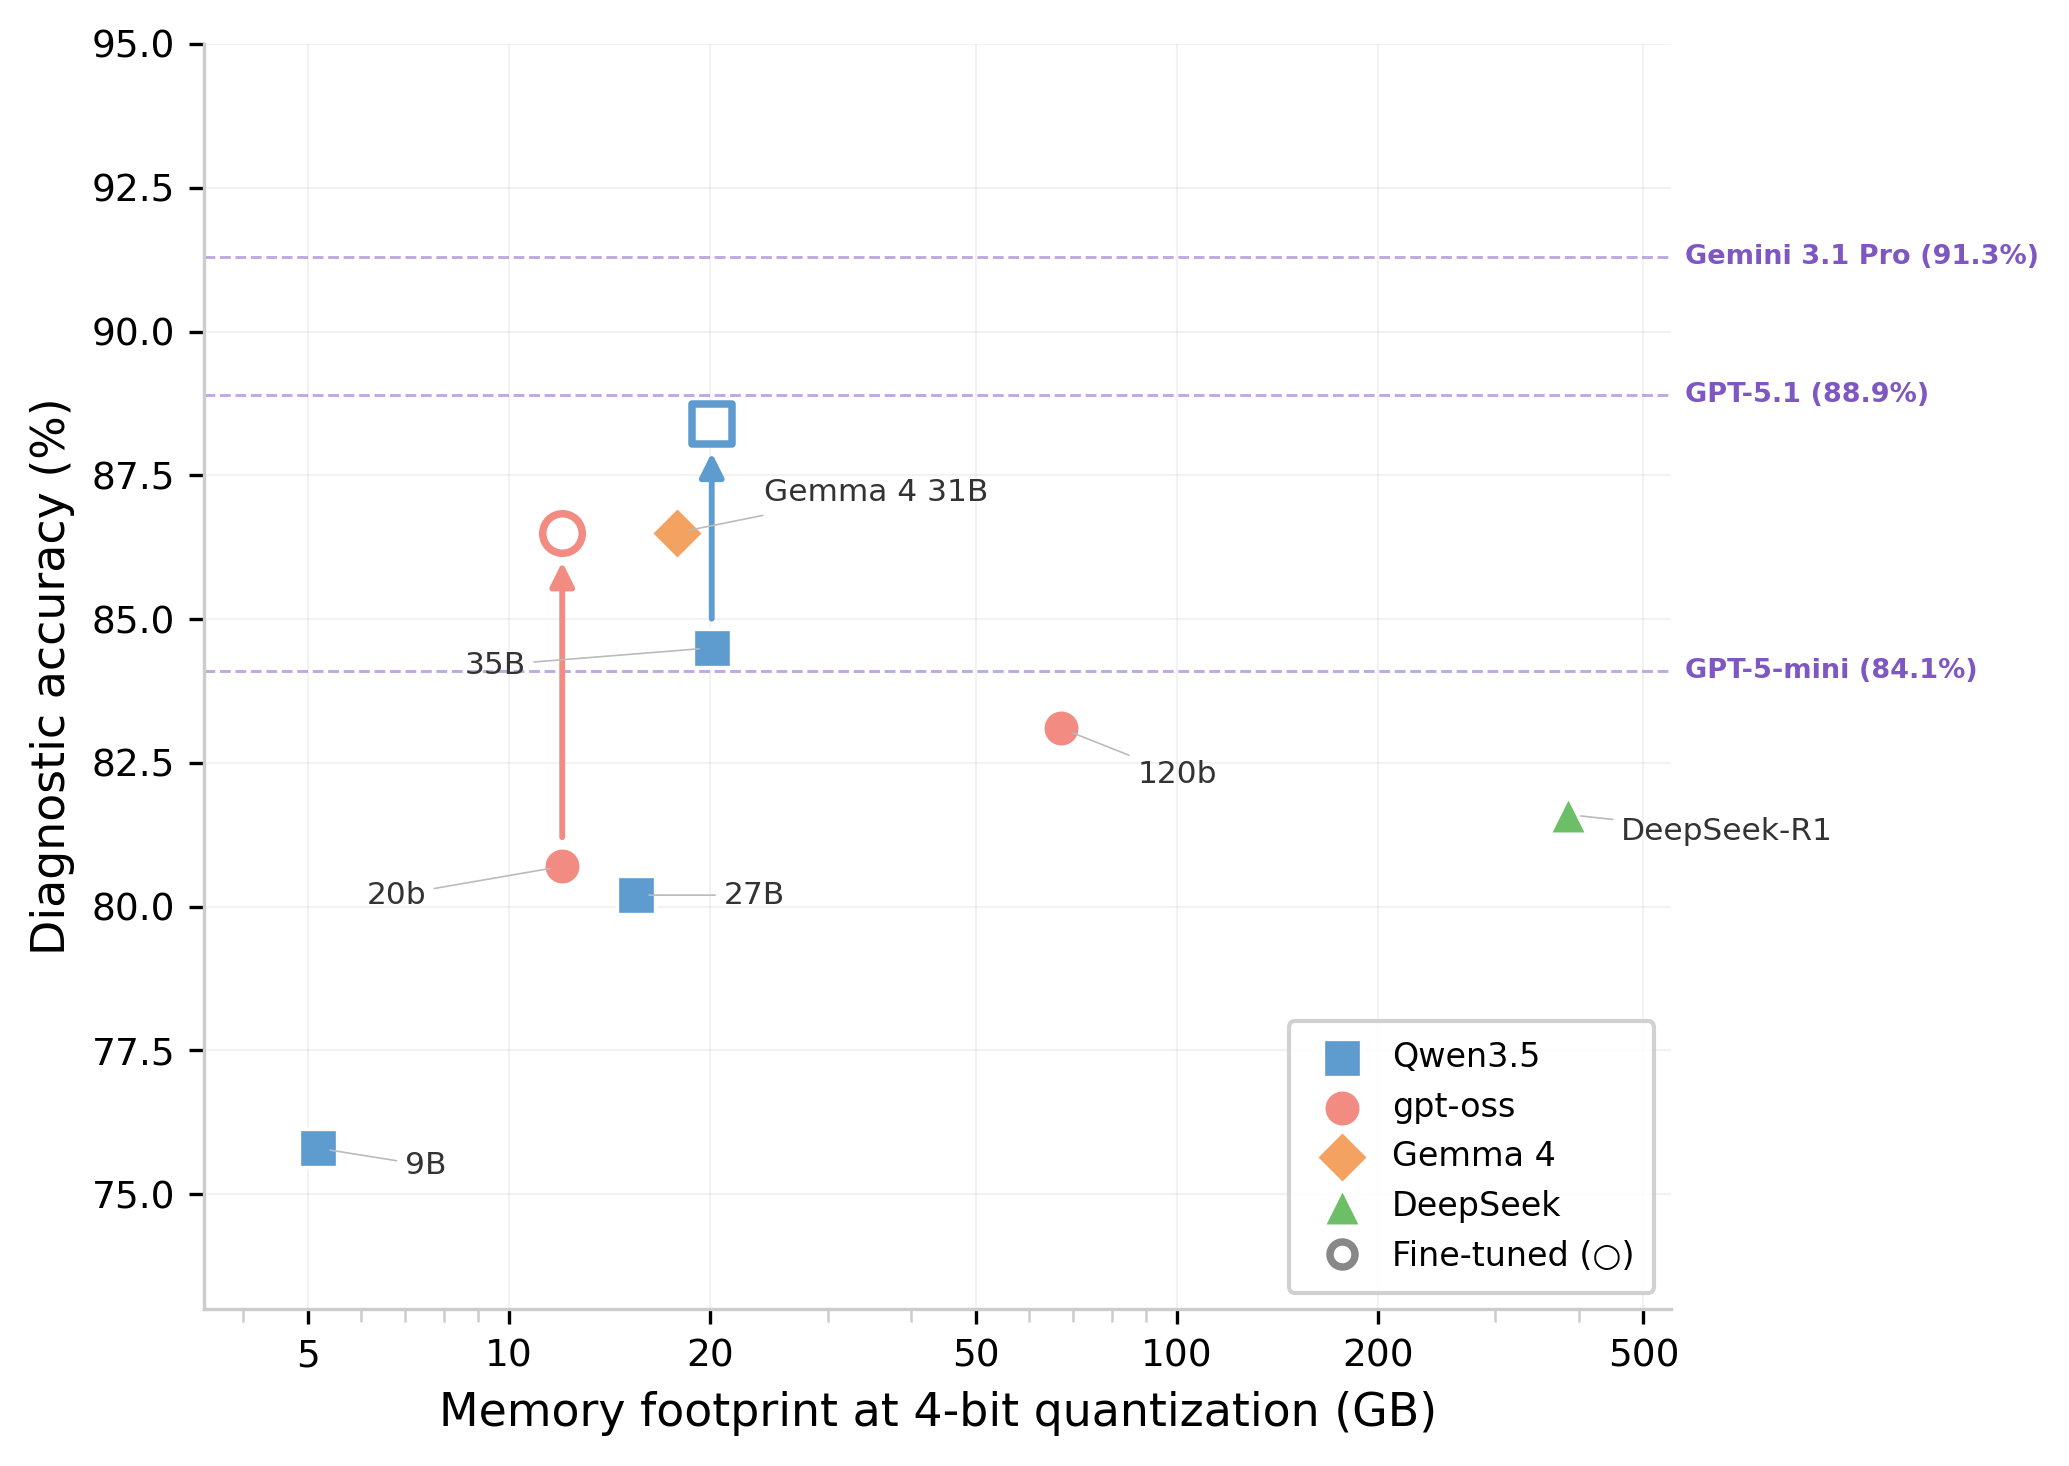
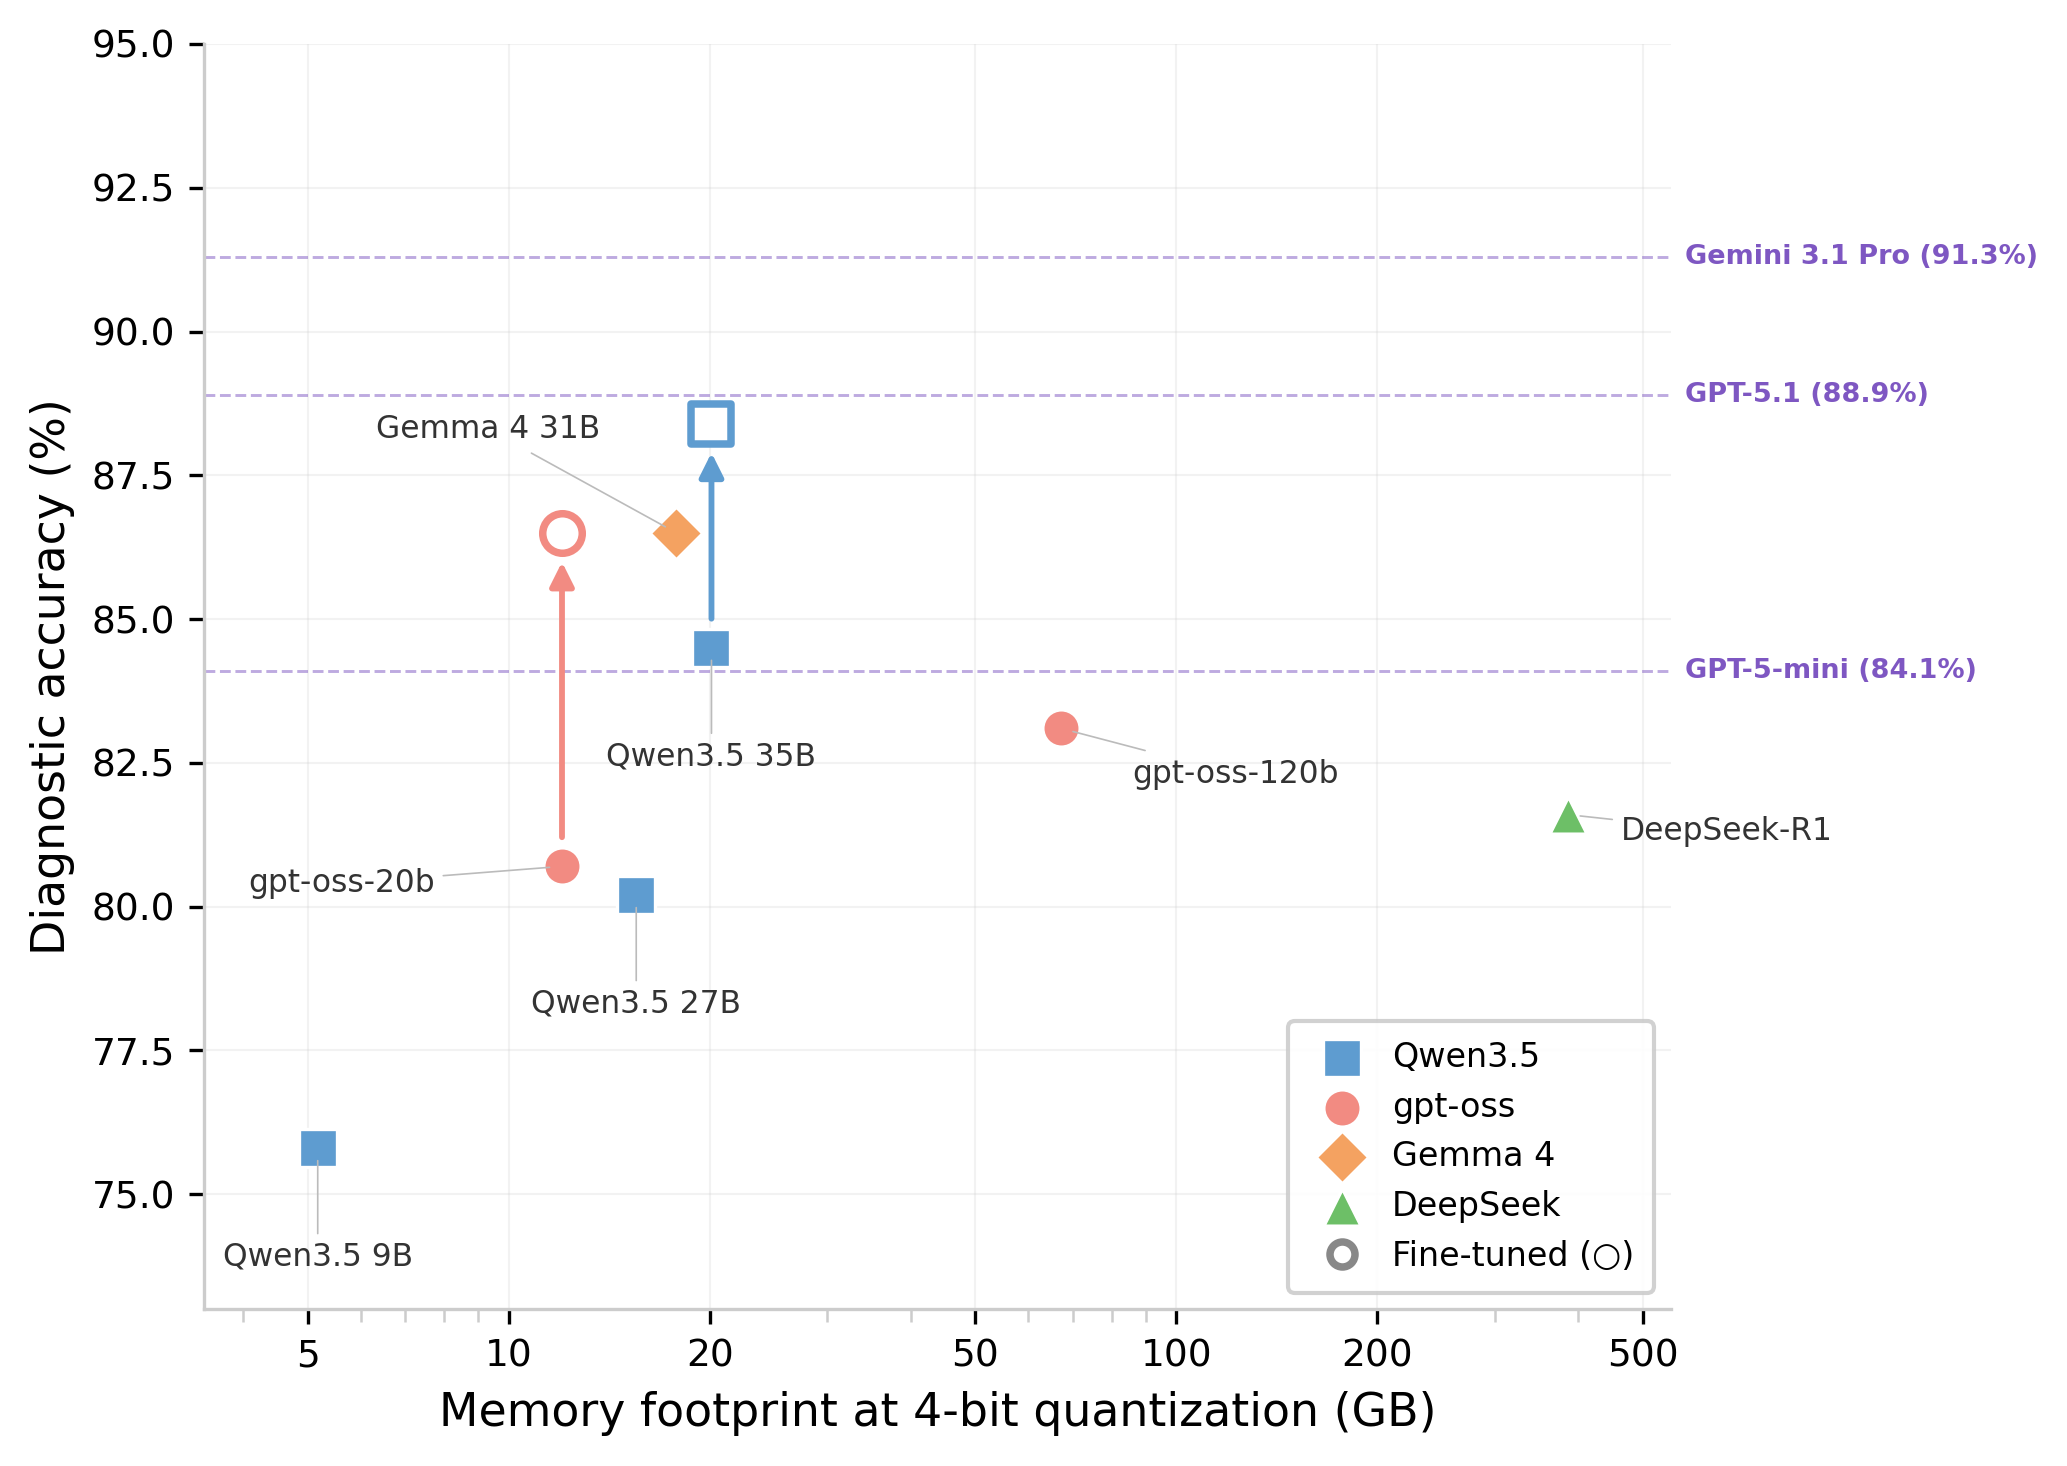
Update Fig 3 label placement and incorporate Overleaf edits
- Move Fig 3 model labels to avoid crossing colored FT arrows: Qwen
  squares below markers, Gemma 4 top-left, gpt-oss-20b left, gpt-oss-120b
  right; use full model names (gpt-oss-20b, Gemma 4 31B, etc.)
- Rewrite off-topic error sentence to separate >=31B models from
  gpt-oss-20b (which has only 3.6B active params, not >=31B)
- Pull co-author edits from Overleaf: Qwen column reorder (9B/27B/35B),
  "Mgmt" -> "Management", ophthalmology Overall row formatting

diff --git a/paper/main.tex b/paper/main.tex
@@ -212,29 +212,29 @@ Gemma 4 31B achieved the strongest base on-device accuracy at 86.5\% (95\% CI: 8
 \toprule
 & & \multicolumn{3}{c}{\textbf{Proprietary}} & \textbf{Open} & \multicolumn{2}{c}{\textbf{gpt-oss}} & \multicolumn{3}{c}{\textbf{Qwen3.5}} & \textbf{Gemma 4} \\
 \cmidrule(lr){3-5} \cmidrule(lr){6-6} \cmidrule(lr){7-8} \cmidrule(lr){9-11} \cmidrule(lr){12-12}
-\textbf{Type} & \textbf{Topic} & \textbf{GPT-5.1} & \textbf{GPT-5-mini} & \textbf{Gemini-3.1} & \textbf{DS-R1} & \textbf{20b} & \textbf{120b} & \textbf{35B} & \textbf{27B} & \textbf{9B} & \textbf{31B} \\
+\textbf{Type} & \textbf{Topic} & \textbf{GPT-5.1} & \textbf{GPT-5-mini} & \textbf{Gemini-3.1} & \textbf{DS-R1} & \textbf{20b} & \textbf{120b} & \textbf{9B} & \textbf{27B} & \textbf{35B} & \textbf{31B} \\
 \midrule
 \multirow{6}{*}{\rotatebox{90}{\textbf{Diagnosis}}}
-& Glaucoma           & \best{\acc{100.0}} & \best{\acc{100.0}} & \best{\acc{100.0}} & \best{\acc{100.0}} & \acc{85.7} & \acc{85.7} & \best{\acc{100.0}} & \best{\acc{100.0}} & \best{\acc{100.0}} & \acc{85.7} \\
+& Glaucoma            & \best{\acc{100.0}} & \best{\acc{100.0}} & \best{\acc{100.0}} & \best{\acc{100.0}} & \acc{85.7} & \acc{85.7} & \best{\acc{100.0}} & \best{\acc{100.0}} & \best{\acc{100.0}} & \acc{85.7} \\
 & Ext.\ Eye/Orbital  & \best{\acc{90.0}} & \acc{80.0} & \best{\acc{90.0}} & \best{\acc{90.0}} & \acc{80.0} & \acc{80.0} & \acc{70.0} & \acc{70.0} & \acc{70.0} & \acc{80.0} \\
-& Retinal            & \best{\acc{100.0}} & \best{\acc{100.0}} & \best{\acc{100.0}} & \best{\acc{100.0}} & \acc{66.7} & \acc{66.7} & \best{\acc{100.0}} & \best{\acc{100.0}} & \acc{66.7} & \acc{66.7} \\
+& Retinal            & \best{\acc{100.0}} & \best{\acc{100.0}} & \best{\acc{100.0}} & \best{\acc{100.0}} & \acc{66.7} & \acc{66.7} & \acc{66.7} & \best{\acc{100.0}} & \best{\acc{100.0}} & \acc{66.7} \\
 & Anterior Segment   & \acc{50.0} & \best{\acc{75.0}} & \best{\acc{75.0}} & \best{\acc{75.0}} & \acc{62.5} & \best{\acc{75.0}} & \best{\acc{75.0}} & \best{\acc{87.5}} & \best{\acc{75.0}} & \best{\acc{75.0}} \\
-& Ocular Trauma      & \best{\acc{100.0}} & \acc{83.3} & \best{\acc{100.0}} & \best{\acc{100.0}} & \acc{83.3} & \best{\acc{100.0}} & \best{\acc{100.0}} & \best{\acc{100.0}} & \acc{83.3} & \best{\acc{100.0}} \\
+& Ocular Trauma      & \best{\acc{100.0}} & \acc{83.3} & \best{\acc{100.0}} & \best{\acc{100.0}} & \acc{83.3} & \best{\acc{100.0}} & \acc{83.3} & \best{\acc{100.0}} & \best{\acc{100.0}} & \best{\acc{100.0}} \\
 & Refract./Strabismus & \best{\acc{100.0}} & \best{\acc{100.0}} & \best{\acc{100.0}} & \best{\acc{100.0}} & \best{\acc{100.0}} & \best{\acc{100.0}} & \best{\acc{100.0}} & \best{\acc{100.0}} & \best{\acc{100.0}} & \best{\acc{100.0}} \\
 \cmidrule{2-12}
-& \textit{Average}   & \textit{\acc{87.2}} & \textit{\acc{87.2}} & \textit{\best{\acc{92.3}}} & \textit{\best{\acc{92.3}}} & \textit{\acc{79.5}} & \textit{\acc{84.6}} & \textit{\acc{87.2}} & \textit{\best{\acc{89.7}}} & \textit{\acc{82.1}} & \textit{\acc{84.6}} \\
+& \textit{Average}   & \textit{\acc{87.2}} & \textit{\acc{87.2}} & \textit{\best{\acc{92.3}}} & \textit{\best{\acc{92.3}}} & \textit{\acc{79.5}} & \textit{\acc{84.6}} & \textit{\acc{82.1}} & \textit{\best{\acc{89.7}}} & \textit{\acc{87.2}} & \textit{\acc{84.6}} \\
 \midrule
-\multirow{6}{*}{\rotatebox{90}{\textbf{Mgmt}}}
-& Glaucoma           & \best{\acc{85.7}} & \acc{64.3} & \best{\acc{85.7}} & \acc{71.4} & \acc{50.0} & \acc{78.6} & \best{\acc{85.7}} & \best{\acc{85.7}} & \acc{64.3} & \acc{71.4} \\
-& Ext.\ Eye/Orbital  & \acc{71.4} & \acc{57.1} & \acc{64.3} & \acc{78.6} & \acc{64.3} & \acc{71.4} & \best{\acc{92.9}} & \acc{71.4} & \acc{78.6} & \acc{78.6} \\
+\multirow{6}{*}{\rotatebox{90}{\textbf{Management}}}
+& Glaucoma            & \best{\acc{85.7}} & \acc{64.3} & \best{\acc{85.7}} & \acc{71.4} & \acc{50.0} & \acc{78.6} & \acc{64.3} & \best{\acc{85.7}} & \best{\acc{85.7}} & \acc{71.4} \\
+& Ext.\ Eye/Orbital  & \acc{71.4} & \acc{57.1} & \acc{64.3} & \acc{78.6} & \acc{64.3} & \acc{71.4} & \acc{78.6} & \acc{71.4} & \best{\acc{92.9}} & \acc{78.6} \\
 & Retinal            & \acc{37.5} & \acc{25.0} & \acc{37.5} & \acc{37.5} & \acc{37.5} & \acc{37.5} & \acc{37.5} & \acc{25.0} & \acc{37.5} & \acc{37.5} \\
-& Anterior Segment   & \best{\acc{82.4}} & \acc{64.7} & \best{\acc{82.4}} & \acc{70.6} & \acc{76.5} & \acc{76.5} & \acc{64.7} & \acc{64.7} & \acc{58.8} & \acc{58.8} \\
+& Anterior Segment   & \best{\acc{82.4}} & \acc{64.7} & \best{\acc{82.4}} & \acc{70.6} & \acc{76.5} & \acc{76.5} & \acc{58.8} & \acc{64.7} & \acc{64.7} & \acc{58.8} \\
 & Ocular Trauma      & \acc{65.4} & \acc{57.7} & \acc{65.4} & \best{\acc{76.9}} & \acc{50.0} & \best{\acc{76.9}} & \acc{57.7} & \acc{61.5} & \acc{57.7} & \acc{69.2} \\
-& Refract./Strabismus & \acc{83.3} & \acc{75.0} & \best{\acc{91.7}} & \best{\acc{91.7}} & \acc{83.3} & \best{\acc{91.7}} & \acc{83.3} & \best{\acc{91.7}} & \best{\acc{91.7}} & \best{\acc{91.7}} \\
+& Refract./Strabismus & \acc{83.3} & \acc{75.0} & \best{\acc{91.7}} & \best{\acc{91.7}} & \acc{83.3} & \best{\acc{91.7}} & \best{\acc{91.7}} & \best{\acc{91.7}} & \acc{83.3} & \best{\acc{91.7}} \\
 \cmidrule{2-12}
-& \textit{Average}   & \textit{\acc{72.5}} & \textit{\acc{59.3}} & \textit{\acc{72.5}} & \textit{\best{\acc{73.6}}} & \textit{\acc{60.4}} & \textit{\best{\acc{74.7}}} & \textit{\acc{70.3}} & \textit{\acc{68.1}} & \textit{\acc{64.8}} & \textit{\acc{69.2}} \\
+& \textit{Average}   & \textit{\acc{72.5}} & \textit{\acc{59.3}} & \textit{\acc{72.5}} & \textit{\best{\acc{73.6}}} & \textit{\acc{60.4}} & \textit{\best{\acc{74.7}}} & \textit{\acc{64.8}} & \textit{\acc{68.1}} & \textit{\acc{70.3}} & \textit{\acc{69.2}} \\
 \midrule
-\multicolumn{2}{l}{\textbf{Overall}} & \acc{76.9} & \acc{67.7} & \acc{78.5} & \best{\acc{79.2}} & \acc{66.2} & \acc{77.7} & \acc{75.4} & \acc{74.6} & \acc{70.0} & \acc{73.8} \\
+\multicolumn{2}{l}{\textbf{Overall}} & \acc{76.9} & \acc{67.7} & \acc{78.5} & \best{\acc{79.2}} & \acc{66.2} & \acc{77.7} & \acc{70.0} & \acc{74.6} & \acc{75.4} & \acc{73.8} \\
 \bottomrule
 \end{tabular}
 \end{table}
@@ -271,7 +271,7 @@ Table~\ref{tab:ophthalmology_results} presents the model performance of the LLM-
 & Pediatrics & \best{0.00} & \best{0.00} & -0.67 & -0.33 & -0.33 & \best{0.00} & \best{0.00} & \best{0.00} & \best{0.00} & \best{0.00} \\
 & Surgery & \best{0.00} & \best{0.00} & -0.50 & -0.17 & \best{0.00} & \best{0.00} & 0.33 & 0.25 & 0.25 & 0.25 \\
 \cmidrule{2-12}
-& \textbf{Overall} & \textbf{\best{0.00}} & \textbf{\best{0.00}} & \textbf{-0.50} & \textbf{-0.33} & \textbf{-0.33} & \textbf{\best{0.00}} & \textbf{\best{0.00}} & \textbf{\best{0.00}} & \textbf{\best{0.00}} & \textbf{\best{0.00}} \\
+& \textit{Overall} & \textit{\best{0.00}} & \textit{\best{0.00}} & \textit{-0.50} & \textit{-0.33} & \textit{-0.33} & \textit{\best{0.00}} & \textit{\best{0.00}} & \textit{\best{0.00}} & \textit{\best{0.00}} & \textit{\best{0.00}} \\
 \bottomrule
 \end{tabular}
 \end{table}
@@ -332,7 +332,7 @@ The substantial performance gains across both model families demonstrate that ta
 
 \subsection*{Error characterization across model families}
 
-To understand the nature of residual diagnostic errors, we classified all 358 incorrect majority-vote predictions across the 11 evaluated models into five categories using an independent LLM judge (Table~\ref{tab:error_taxonomy}; Methods). The dominant error mode was category~(c), plausible differential selection, accounting for 87.2\% of all errors (312/358). This proportion was consistent across model families: 97.2\% for proprietary models, 89.5\% for DeepSeek-R1, 83.6\% for base on-device models, and 87.0\% for fine-tuned on-device models. Category~(a) surface-form mismatches---cases where the model identified the correct diagnosis but used an alternative name or abbreviation---comprised only 5.0\% of errors (18/358), concentrated in four ground-truth labels with long multi-qualifier names. This indicates that exact-match scoring does not substantially underestimate diagnostic accuracy. Off-topic or hallucinated predictions (category~d) were restricted to the two smallest on-device models (Qwen3.5 9B and 27B), accounting for all 14 such errors; every model with $\geq$31B parameters, including gpt-oss-20b (3.6B active parameters in its mixture-of-experts architecture), produced zero off-topic errors.
+To understand the nature of residual diagnostic errors, we classified all 358 incorrect majority-vote predictions across the 11 evaluated models into five categories using an independent LLM judge (Table~\ref{tab:error_taxonomy}; Methods). The dominant error mode was category~(c), plausible differential selection, accounting for 87.2\% of all errors (312/358). This proportion was consistent across model families: 97.2\% for proprietary models, 89.5\% for DeepSeek-R1, 83.6\% for base on-device models, and 87.0\% for fine-tuned on-device models. Category~(a) surface-form mismatches---cases where the model identified the correct diagnosis but used an alternative name or abbreviation---comprised only 5.0\% of errors (18/358), concentrated in four ground-truth labels with long multi-qualifier names. This indicates that exact-match scoring does not substantially underestimate diagnostic accuracy. Off-topic or hallucinated predictions (category~d) were restricted to the two smallest on-device models (Qwen3.5 9B and 27B), accounting for all 14 such errors; every other model produced zero off-topic errors, including all on-device models with $\geq$31B parameters as well as gpt-oss-20b (which, despite its 20B total size, activates only 3.6B parameters per token via its mixture-of-experts architecture).
 
 We further quantified the gap between observed majority-vote accuracy and the theoretical best-of-3 oracle---the accuracy achievable if the correct answer from any single run were always selected. Oracle accuracy exceeded majority-vote accuracy by 0--11 cases per model (Supplementary Table~4). The fine-tuned Qwen3.5-35B exhibited the largest oracle accuracy (93.2\%, 193/207), indicating substantial recoverable performance through improved sampling or aggregation strategies. By contrast, Gemma~4 31B produced identical predictions across all three runs for every case (oracle gap~=~0), reflecting fully deterministic generation under our inference protocol.
 

diff --git a/figures/fig3_parameter_efficiency.py b/figures/fig3_parameter_efficiency.py
@@ -26,7 +26,6 @@ from pathlib import Path
 import numpy as np
 import matplotlib.pyplot as plt
 import matplotlib.ticker as mtick
-from adjustText import adjust_text
 
 sys.path.insert(0, str(Path(__file__).resolve().parent))
 from palette import MODEL_COLORS
@@ -241,16 +240,20 @@ def plot(accuracies, output=None):
     ax.set_ylim(73, 95)
 
     # ── Manual label offsets (dx in log-space multiplier, dy in pp) ───────
-    # dx > 0: label at mem * dx (right of marker); dx < 0: label at mem / |dx| (left)
-    # All labels placed to the right for consistency, except where crowded
+    # Format: (dx_mult, dy) or (dx_mult, dy, ha_override).
+    # dx_mult > 0: label at mem * dx_mult (right of marker; default ha="left")
+    # dx_mult < 0: label at mem / |dx_mult| (left of marker; default ha="right")
+    # Positions chosen so the thin leader lines do not cross the colored
+    # fine-tuning arrows (vertical at x≈12 and x≈20) or the dashed
+    # proprietary reference lines.
     LABEL_OFFSETS = {
-        "gpt-oss-20b (H)":  (-1.6, -0.5),
-        "gpt-oss-120b (H)": (1.30, -0.8),
-        "Qwen3.5 9B":       (1.35, -0.3),
-        "Qwen3.5 27B":      (1.35,  0.0),
-        "Qwen3.5 35B":      (-1.9, -0.3),
-        "Gemma 4 31B":      (1.35,  0.7),
-        "DeepSeek-R1":      (1.20, -0.3),
+        "gpt-oss-20b (H)":  (-1.55, -0.3),              # left of marker
+        "gpt-oss-120b (H)": ( 1.28, -0.8),              # right of marker
+        "Qwen3.5 9B":       ( 1.00, -1.9, "center"),    # directly below
+        "Qwen3.5 27B":      ( 1.00, -1.9, "center"),    # directly below
+        "Qwen3.5 35B":      ( 1.00, -1.9, "center"),    # directly below (FT arrow points up)
+        "Gemma 4 31B":      (-1.30,  1.8, "right"),     # top-left
+        "DeepSeek-R1":      ( 1.20, -0.3),              # right of marker
     }
 
     # ── Scatter: base models only (FT points plotted separately) ──────────
@@ -274,14 +277,17 @@ def plot(accuracies, output=None):
         ax.scatter(mem, acc, c=color, marker=marker, s=80, zorder=5,
                    edgecolors="white", linewidths=0.8, label=label)
 
-        # Manual label placement
-        display = (model.replace("gpt-oss-", "")
-                        .replace("Qwen3.5 ", "")
-                        .replace(" (H)", ""))
-        dx_mult, dy = LABEL_OFFSETS.get(model, (1.25, 0))
+        # Manual label placement — use full model names for clarity
+        display = model.replace(" (H)", "")
+        offset = LABEL_OFFSETS.get(model, (1.25, 0))
+        dx_mult, dy = offset[0], offset[1]
+        ha_override = offset[2] if len(offset) >= 3 else None
         lx = mem * dx_mult if dx_mult > 0 else mem / abs(dx_mult)
         ly = acc + dy
-        ha = "left" if dx_mult > 0 else "right"
+        if ha_override is not None:
+            ha = ha_override
+        else:
+            ha = "left" if dx_mult > 0 else "right"
         ax.annotate(
             display, xy=(mem, acc), xytext=(lx, ly),
             fontsize=7.5, color="#333333", ha=ha, va="center", zorder=6,
